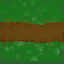
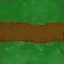
Textures and tile printing :hurtrealbad:
Begun a function to print tile textures once loaded. Tiles are going to need more complicafed id's in order to print textures with adjacent tiles in mind. The dataframe of textures is also going to need to keep track of tile id

Changed region(s): [[0.0312, 0.875, 0.4375, 1.0], [0.5, 0.9375, 1.0, 1.0]]

diff --git a/UofAisBest/test.py b/UofAisBest/test.py
@@ -68,7 +68,7 @@ def main():
             #---------------------#
             #Game State
             #---------------------#
-            screen.blit(background,(0,0))
+            printTiles(mapo,tiles,screen)
             screen.blit(player,(x,y))
             #basic movement
             if key[pygame.K_w]:y -= 10
@@ -84,15 +84,6 @@ def main():
 
         #Animate
         pygame.display.update()
-
-# def loadGraphics():
-#     player = pygame.image.load('idle1.png').convert()
-#     background = pygame.image.load('adelaide.jpg').convert()
-#     background = pygame.transform.scale(background,(1280,720))
-#     welcome = pygame.image.load('welcome.png').convert()
-#     grass = pygame.transform.scale(pygame.image.load('grass.png').convert(),(128,128))
-#     path = pygame.transform.scale(pygame.image.load('path.png').convert,(128,128))
-#     enter = pygame.image.load('enter.png').convert()
 
 def loadTiles():
     tiles = panda.DataFrame()
@@ -110,6 +101,21 @@ def loadText():
         temp = panda.DataFrame(data={pygame.image.load(textDat[i][1]+'.png').convert()},index=[textDat[i][1]])
         text = text.append(temp)
     return text
+
+def printTiles(map,tiles,screen):
+    for i in range(map.shape[0]):
+        for j in range(map.shape[1]):
+            #tile = int(map[j][i])
+            #if tile == 2:
+                #tileCbecmer(map,tile,i,j)
+            screen.blit(tiles[0][int(map[j][i])],(i*128,j*128))
+def tileChecker(map,t,i,j):
+    checker = np.array([int(map[j-1][i]),int(map[j+1][i]),int(map[j][i-1]),int(map[j][i+1])])
+    rotor = 0
+    if sum(checker) == 4:
+        tile = t + 3
+    if sum(checker) == 3:
+        rotor = np.where(checker != t)
 
 
      
